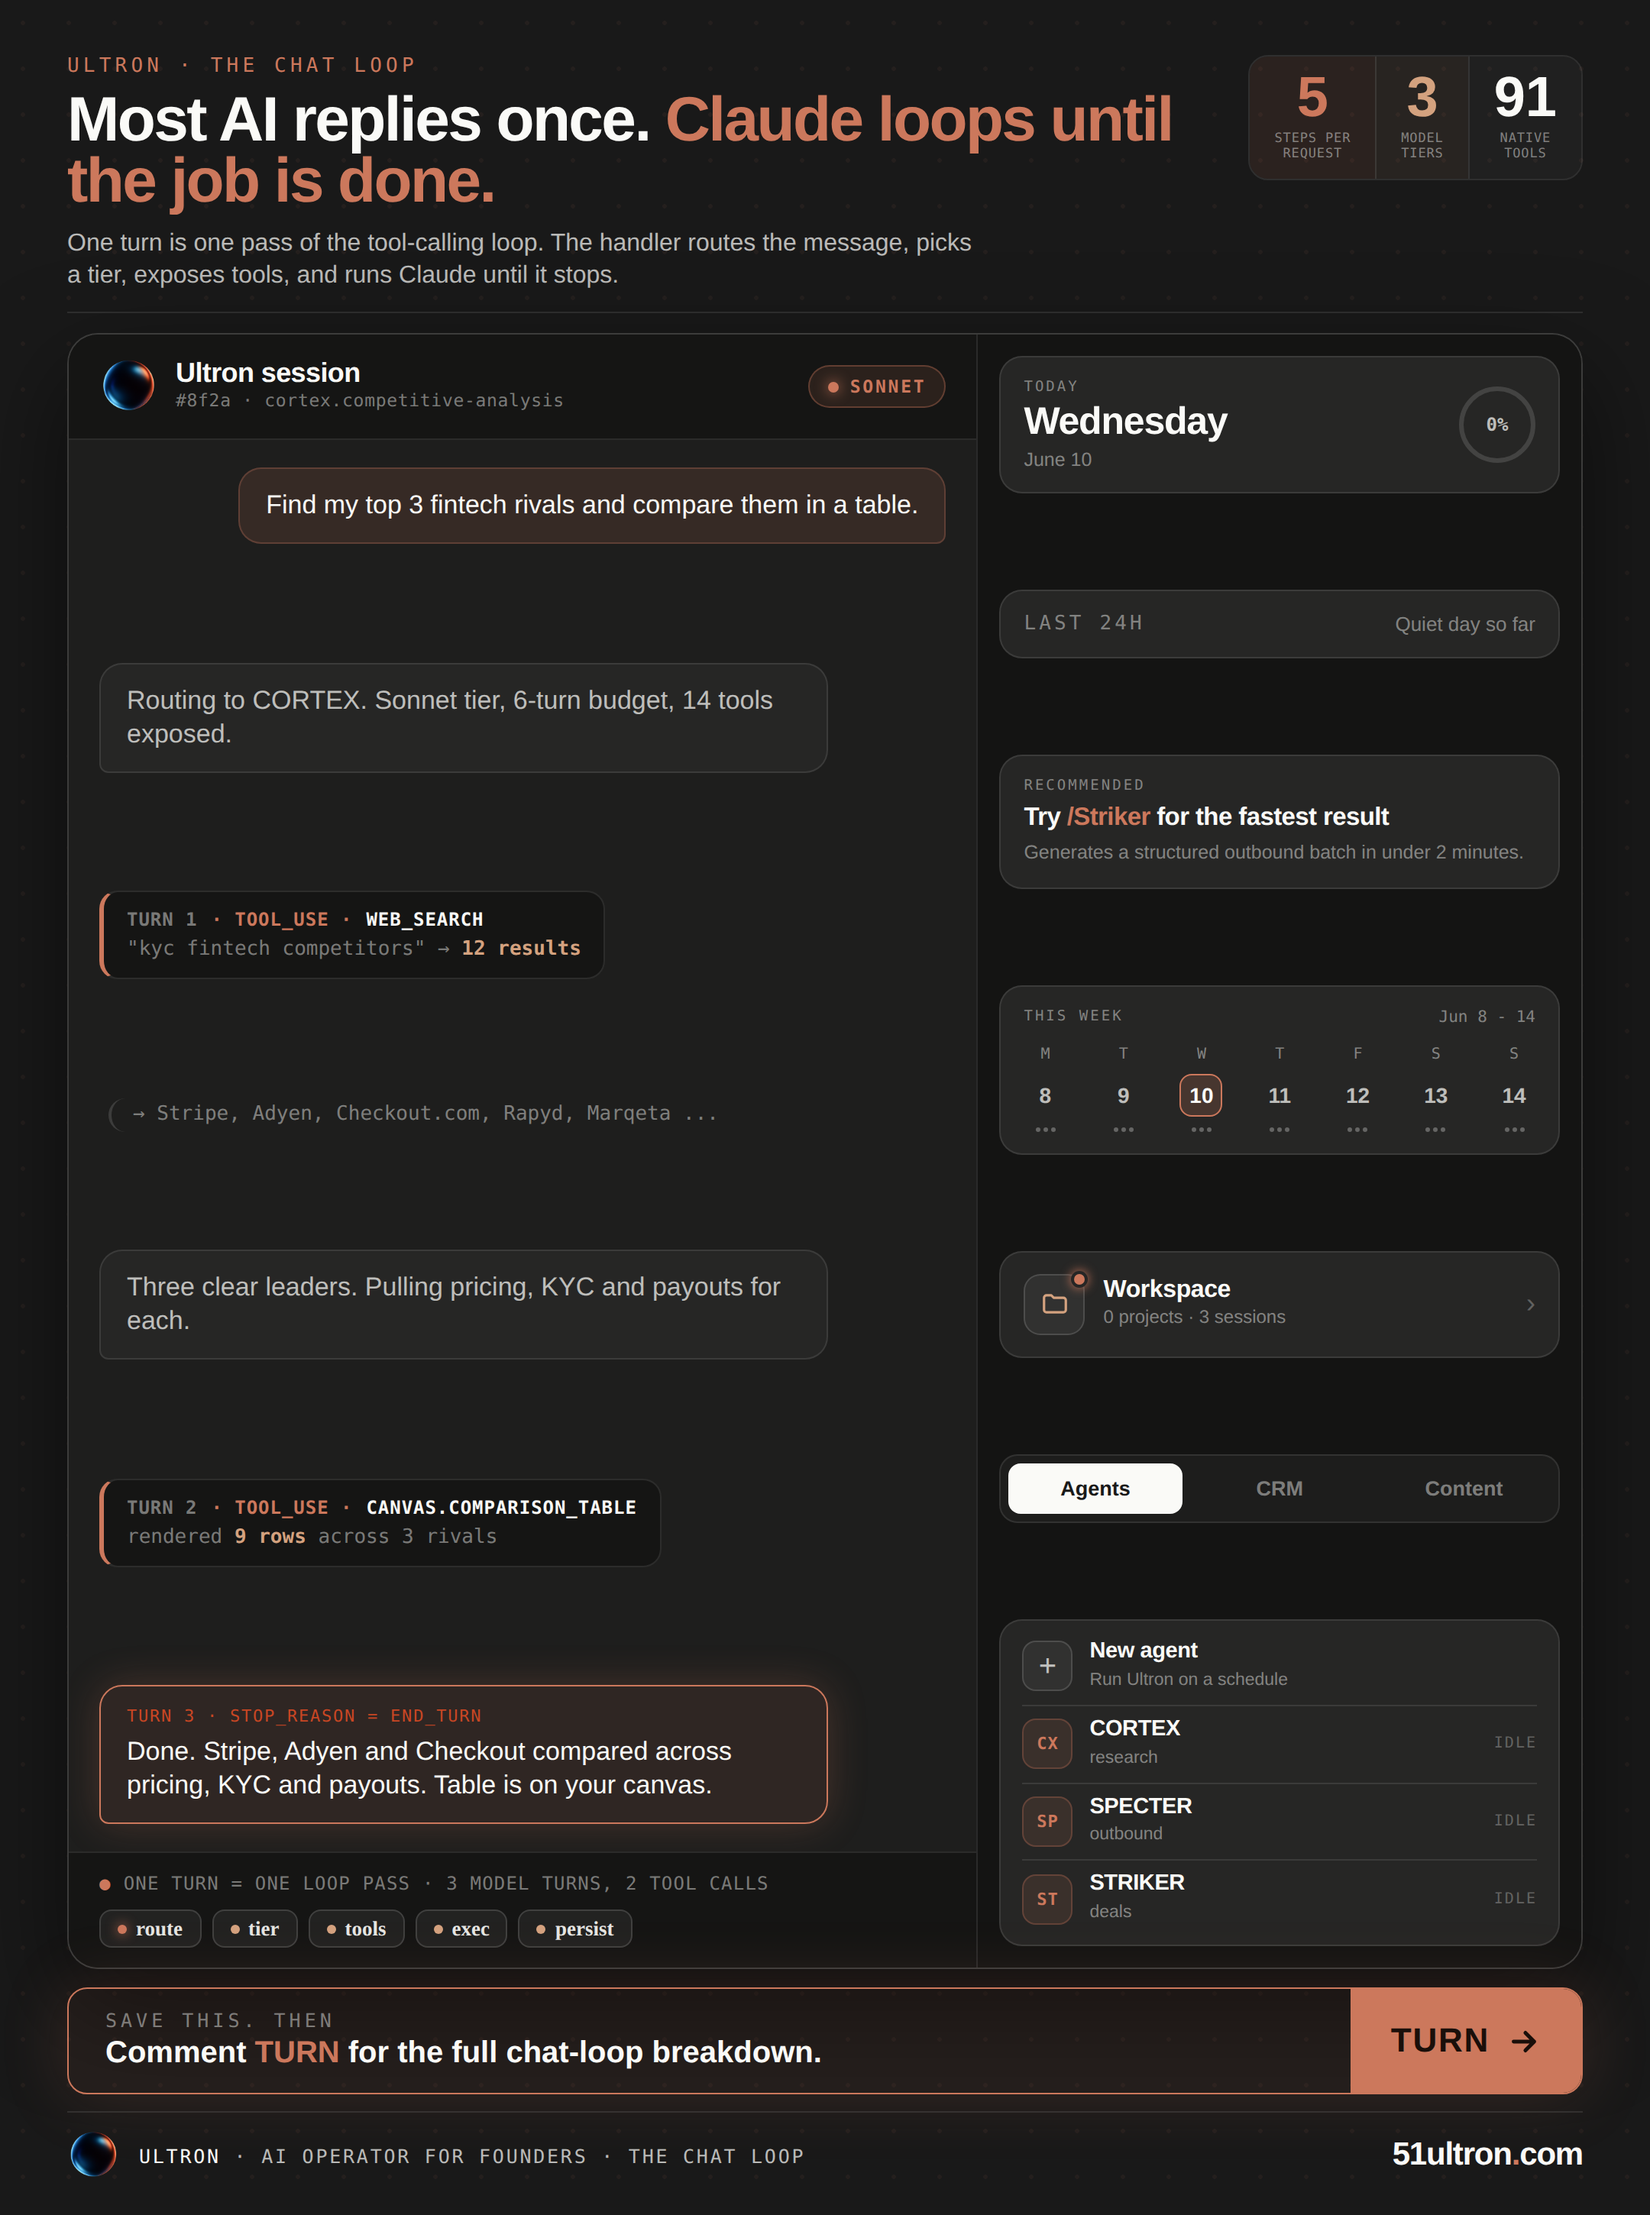
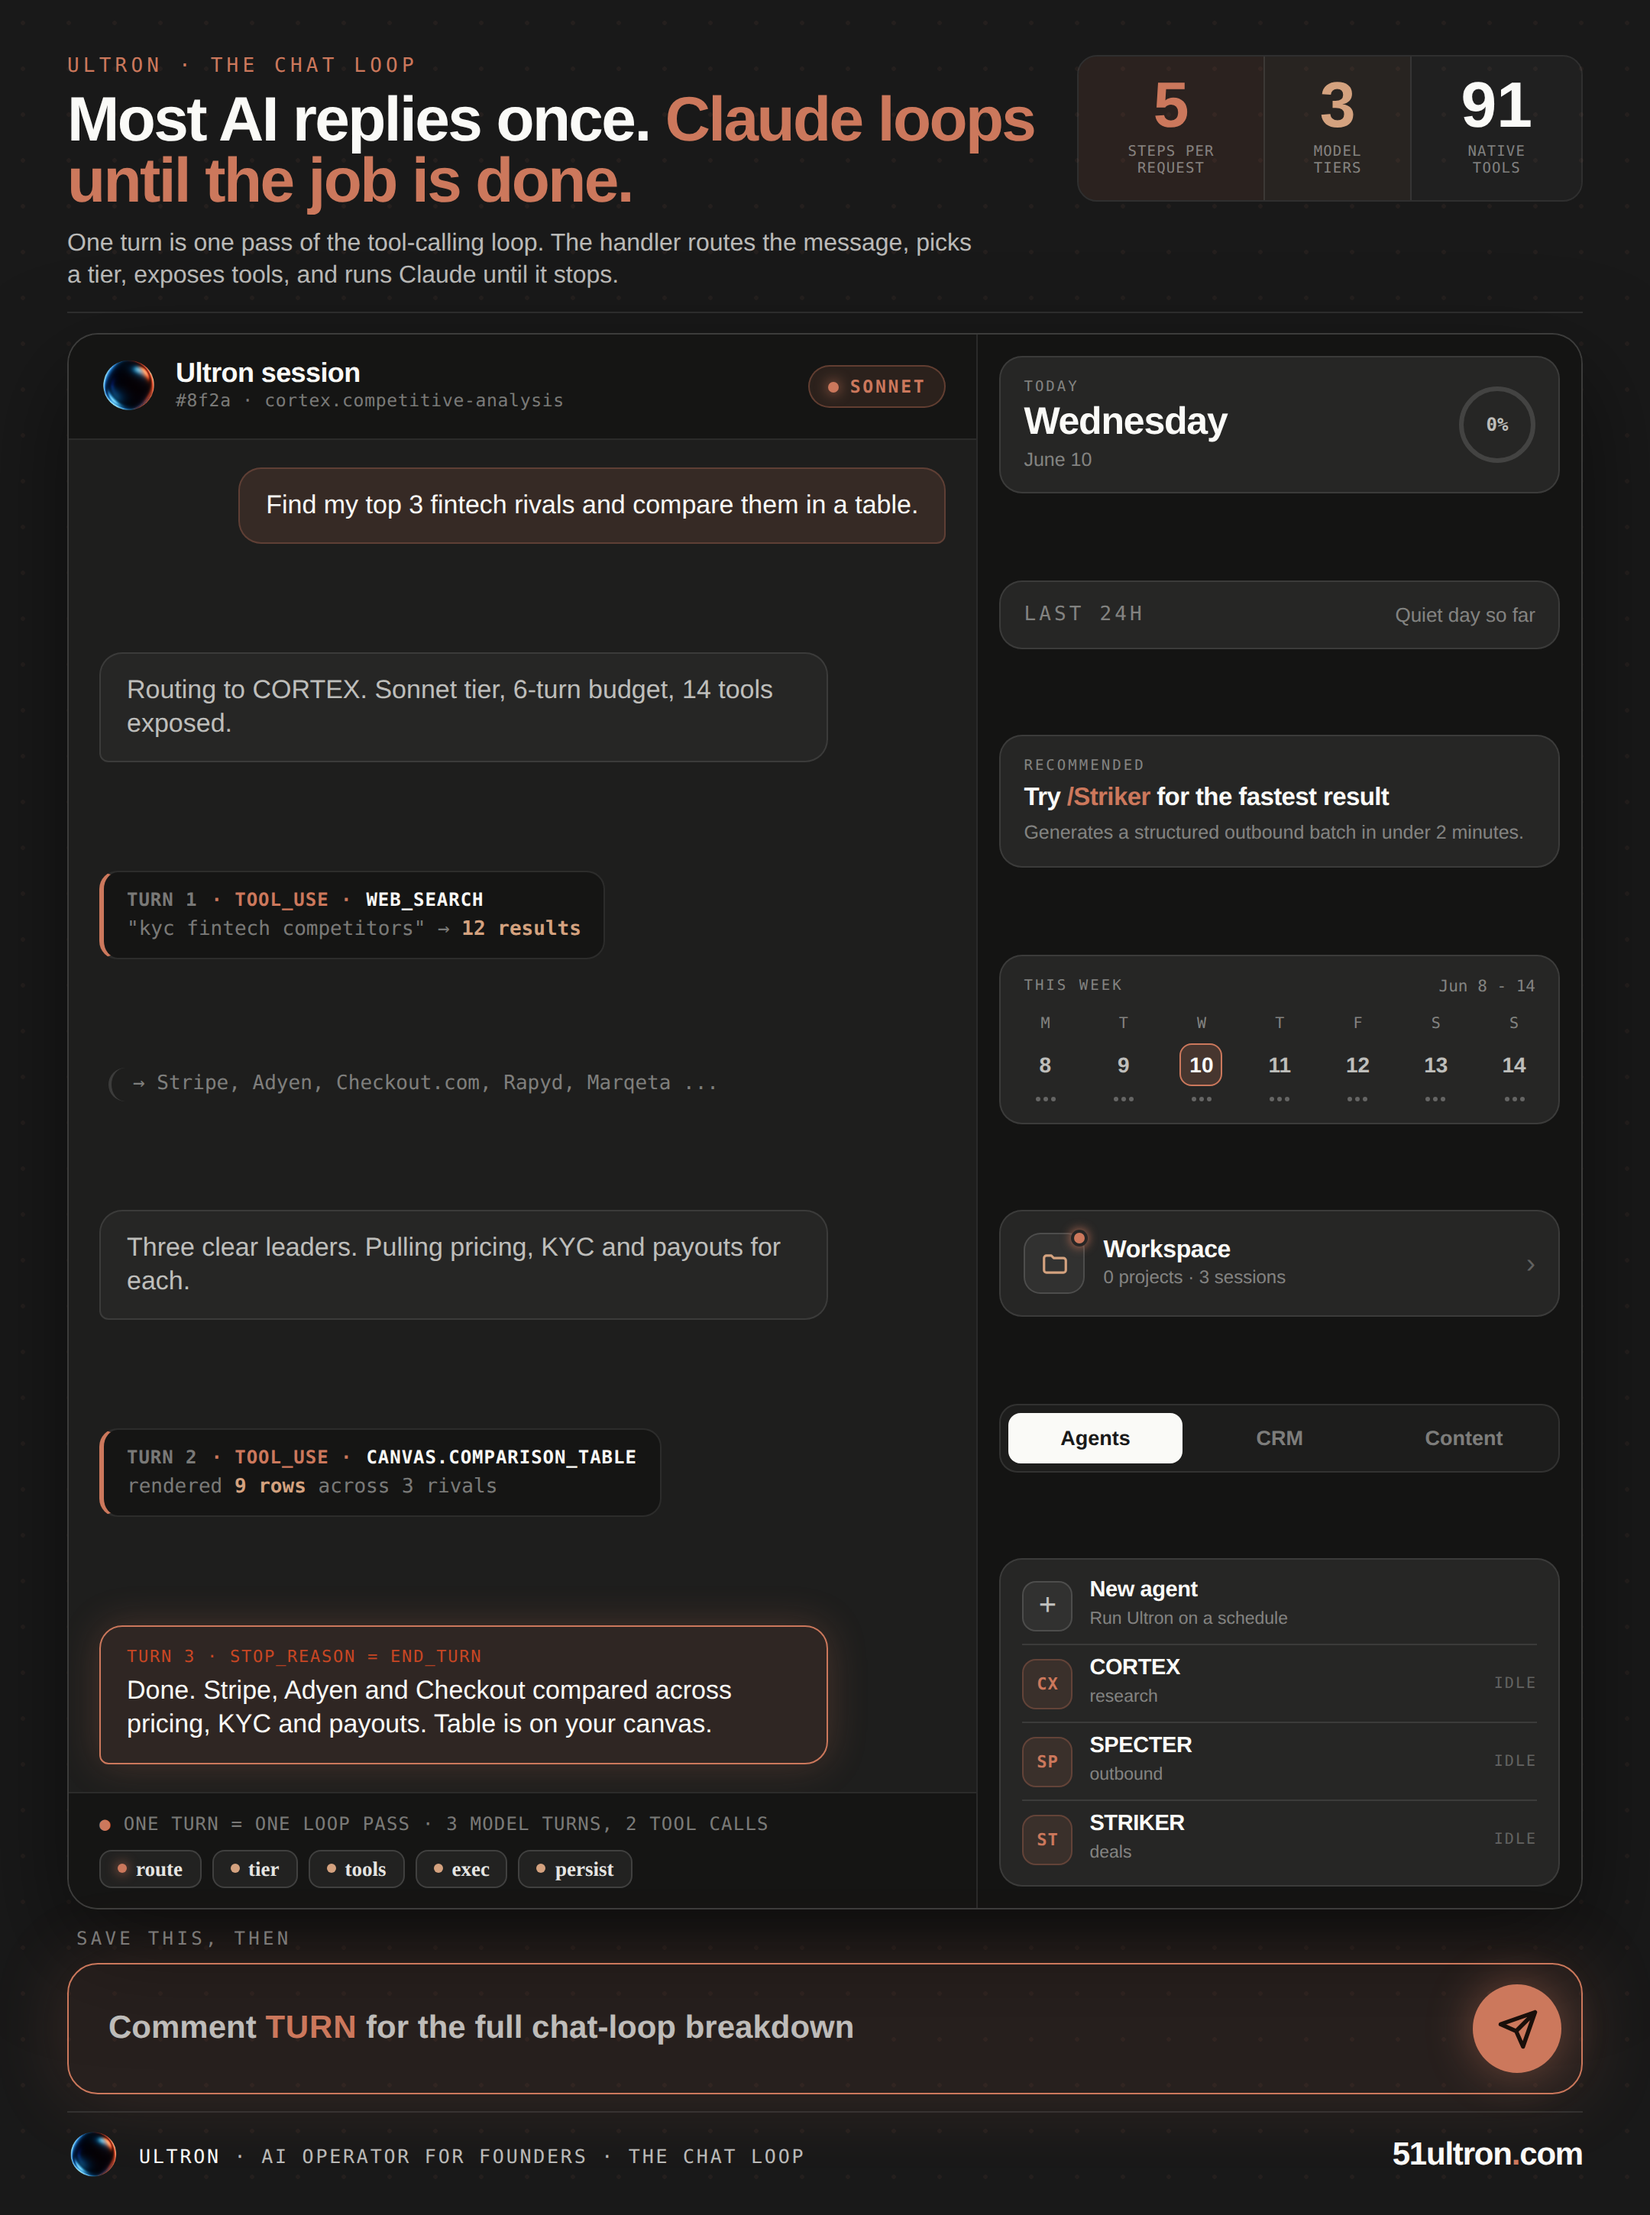
content: docs-11 - widen the top-right stat tile, swap CTA to the TikTok rounded send-pill
Two targeted tweaks: the 5/3/91 stat tile cells are wider and more prominent, and the
CTA is now the docs-10 TikTok variant (rounded pill, 'Save this, then' label, round
book send button with paper-plane) which ties to the chat-composer theme of the mockup.

diff --git a/content/docs-11-turn-linkedin.html b/content/docs-11-turn-linkedin.html
@@ -11,10 +11,10 @@ body{background:#0d0d0d;display:flex;justify-content:center;padding:24px 0;font-
 .hook{font-weight:900;font-size:41px;line-height:.97;letter-spacing:-1.3px;color:var(--ivory);}.hook em{color:var(--book);font-style:normal;}
 .sub{margin-top:10px;font-size:16px;font-weight:500;line-height:1.33;color:var(--ink70);max-width:600px;}.sub b{color:var(--ivory);font-weight:700;}
 .statile{flex-shrink:0;display:flex;border:1px solid var(--rule);border-radius:13px;overflow:hidden;}
-.st{padding:13px 16px 11px;text-align:center;}.st+.st{border-left:1px solid var(--rule);}
-.st .sn{font-weight:900;font-size:37px;line-height:.78;}.st.a .sn{color:var(--book);}.st.b .sn{color:var(--kraft);}.st.c .sn{color:var(--ivory);}
+.st{padding:16px 32px 14px;text-align:center;}.st+.st{border-left:1px solid var(--rule);}
+.st .sn{font-weight:900;font-size:42px;line-height:.78;}.st.a .sn{color:var(--book);}.st.b .sn{color:var(--kraft);}.st.c .sn{color:var(--ivory);}
 .st.a{background:rgba(204,120,92,.1);}.st.b{background:rgba(212,162,127,.08);}.st.c{background:rgba(250,250,247,.03);}
-.st .sl{font-family:'DM Mono',monospace;font-size:8.5px;font-weight:500;letter-spacing:.05em;text-transform:uppercase;color:var(--ink46);margin-top:7px;line-height:1.2;}
+.st .sl{font-family:'DM Mono',monospace;font-size:9.5px;font-weight:500;letter-spacing:.06em;text-transform:uppercase;color:var(--ink46);margin-top:8px;line-height:1.2;}
 /* app window: chat pane + ultron menu pane */
 .app{flex:1;min-height:0;margin-top:13px;display:flex;border:1px solid var(--ink14);border-radius:20px;overflow:hidden;background:#1e1e1d;box-shadow:0 26px 66px rgba(0,0,0,.5);}
 .chatpane{flex:1.62;min-width:0;display:flex;flex-direction:column;}
@@ -78,12 +78,12 @@ body{background:#0d0d0d;display:flex;justify-content:center;padding:24px 0;font-
 .naic2{width:33px;height:33px;border-radius:9px;background:rgba(250,250,247,.05);border:1px solid var(--ink14);display:flex;align-items:center;justify-content:center;color:var(--ink70);font-size:20px;flex-shrink:0;line-height:1;}
 .ag .at b{display:block;font-size:14.5px;font-weight:800;color:var(--ivory);letter-spacing:-.2px;line-height:1.1;}.ag .at span{font-size:11.5px;color:var(--ink46);}
 .ag .agt{margin-left:auto;font-family:'DM Mono',monospace;font-size:10px;letter-spacing:.1em;text-transform:uppercase;color:var(--ink30);}
-.cta{flex-shrink:0;margin-top:12px;display:flex;align-items:stretch;border:1px solid var(--book);border-radius:13px;overflow:hidden;box-shadow:0 0 44px rgba(204,120,92,.18);}
-.cta-l{flex:1;padding:13px 24px;display:flex;flex-direction:column;justify-content:center;gap:3px;background:rgba(204,120,92,.07);}
-.cta-k{font-family:'DM Mono',monospace;font-size:12.5px;font-weight:500;letter-spacing:.2em;text-transform:uppercase;color:var(--ink46);}
-.cta-t{font-size:20px;font-weight:700;color:var(--ivory);line-height:1.18;}.cta-t b{color:var(--book);font-weight:900;}
-.cta-chip{flex-shrink:0;padding:0 26px;gap:11px;background:var(--book);display:flex;align-items:center;font-size:22px;font-weight:900;letter-spacing:.04em;text-transform:uppercase;color:#1a0f0a;}
-.cta-chip svg{width:23px;height:23px;stroke:#1a0f0a;stroke-width:2.6;fill:none;stroke-linecap:round;stroke-linejoin:round;}
+.ctawrap{flex-shrink:0;margin-top:12px;}
+.savel{font-family:'DM Mono',monospace;font-size:12px;font-weight:500;letter-spacing:.18em;text-transform:uppercase;color:var(--ink46);margin-bottom:9px;padding-left:6px;}
+.cta{display:flex;align-items:center;gap:16px;border:1.5px solid var(--book);border-radius:20px;background:rgba(204,120,92,.08);padding:13px 13px 13px 26px;box-shadow:0 0 50px rgba(204,120,92,.18);}
+.cta .ph{flex:1;font-size:21px;font-weight:600;color:var(--ink70);line-height:1.2;}.cta .ph b{color:var(--book);font-weight:900;letter-spacing:.02em;}
+.cta .send{width:58px;height:58px;border-radius:50%;background:var(--book);flex-shrink:0;display:flex;align-items:center;justify-content:center;box-shadow:0 0 30px rgba(204,120,92,.45);}
+.cta .send svg{width:27px;height:27px;stroke:#1a0f0a;stroke-width:2.4;fill:none;stroke-linecap:round;stroke-linejoin:round;}
 .ftr{flex-shrink:0;margin-top:11px;display:flex;align-items:center;justify-content:space-between;gap:18px;border-top:1px solid var(--rule);padding-top:11px;}
 .fl2{display:flex;align-items:center;gap:13px;min-width:0;}.flogo{width:34px;height:34px;border-radius:50%;object-fit:cover;}
 .ftx{font-family:'DM Mono',monospace;font-size:12.5px;font-weight:400;letter-spacing:.11em;text-transform:uppercase;color:var(--ink70);}.ftx b{color:var(--ivory);font-weight:500;}
@@ -128,6 +128,6 @@ body{background:#0d0d0d;display:flex;justify-content:center;padding:24px 0;font-
 </div>
 </div>
 </div>
-<div class="cta"><div class="cta-l"><div class="cta-k">Save this. Then</div><div class="cta-t">Comment <b>TURN</b> for the full chat-loop breakdown.</div></div><div class="cta-chip">TURN <svg viewBox="0 0 24 24"><path d="M5 12h14M13 6l6 6-6 6"/></svg></div></div>
+<div class="ctawrap"><div class="savel">Save this, then</div><div class="cta"><span class="ph">Comment <b>TURN</b> for the full chat-loop breakdown</span><span class="send"><svg viewBox="0 0 24 24"><path d="M22 2L11 13M22 2l-7 20-4-9-9-4z"/></svg></span></div></div>
 <div class="ftr"><div class="fl2"><img class="flogo" src="__LOGO_URI__" alt="Ultron"><div class="ftx"><b>ULTRON</b> &middot; AI OPERATOR FOR FOUNDERS &middot; THE CHAT LOOP</div></div><div class="furl">51ultron<em>.</em>com</div></div>
 </div></body></html>
